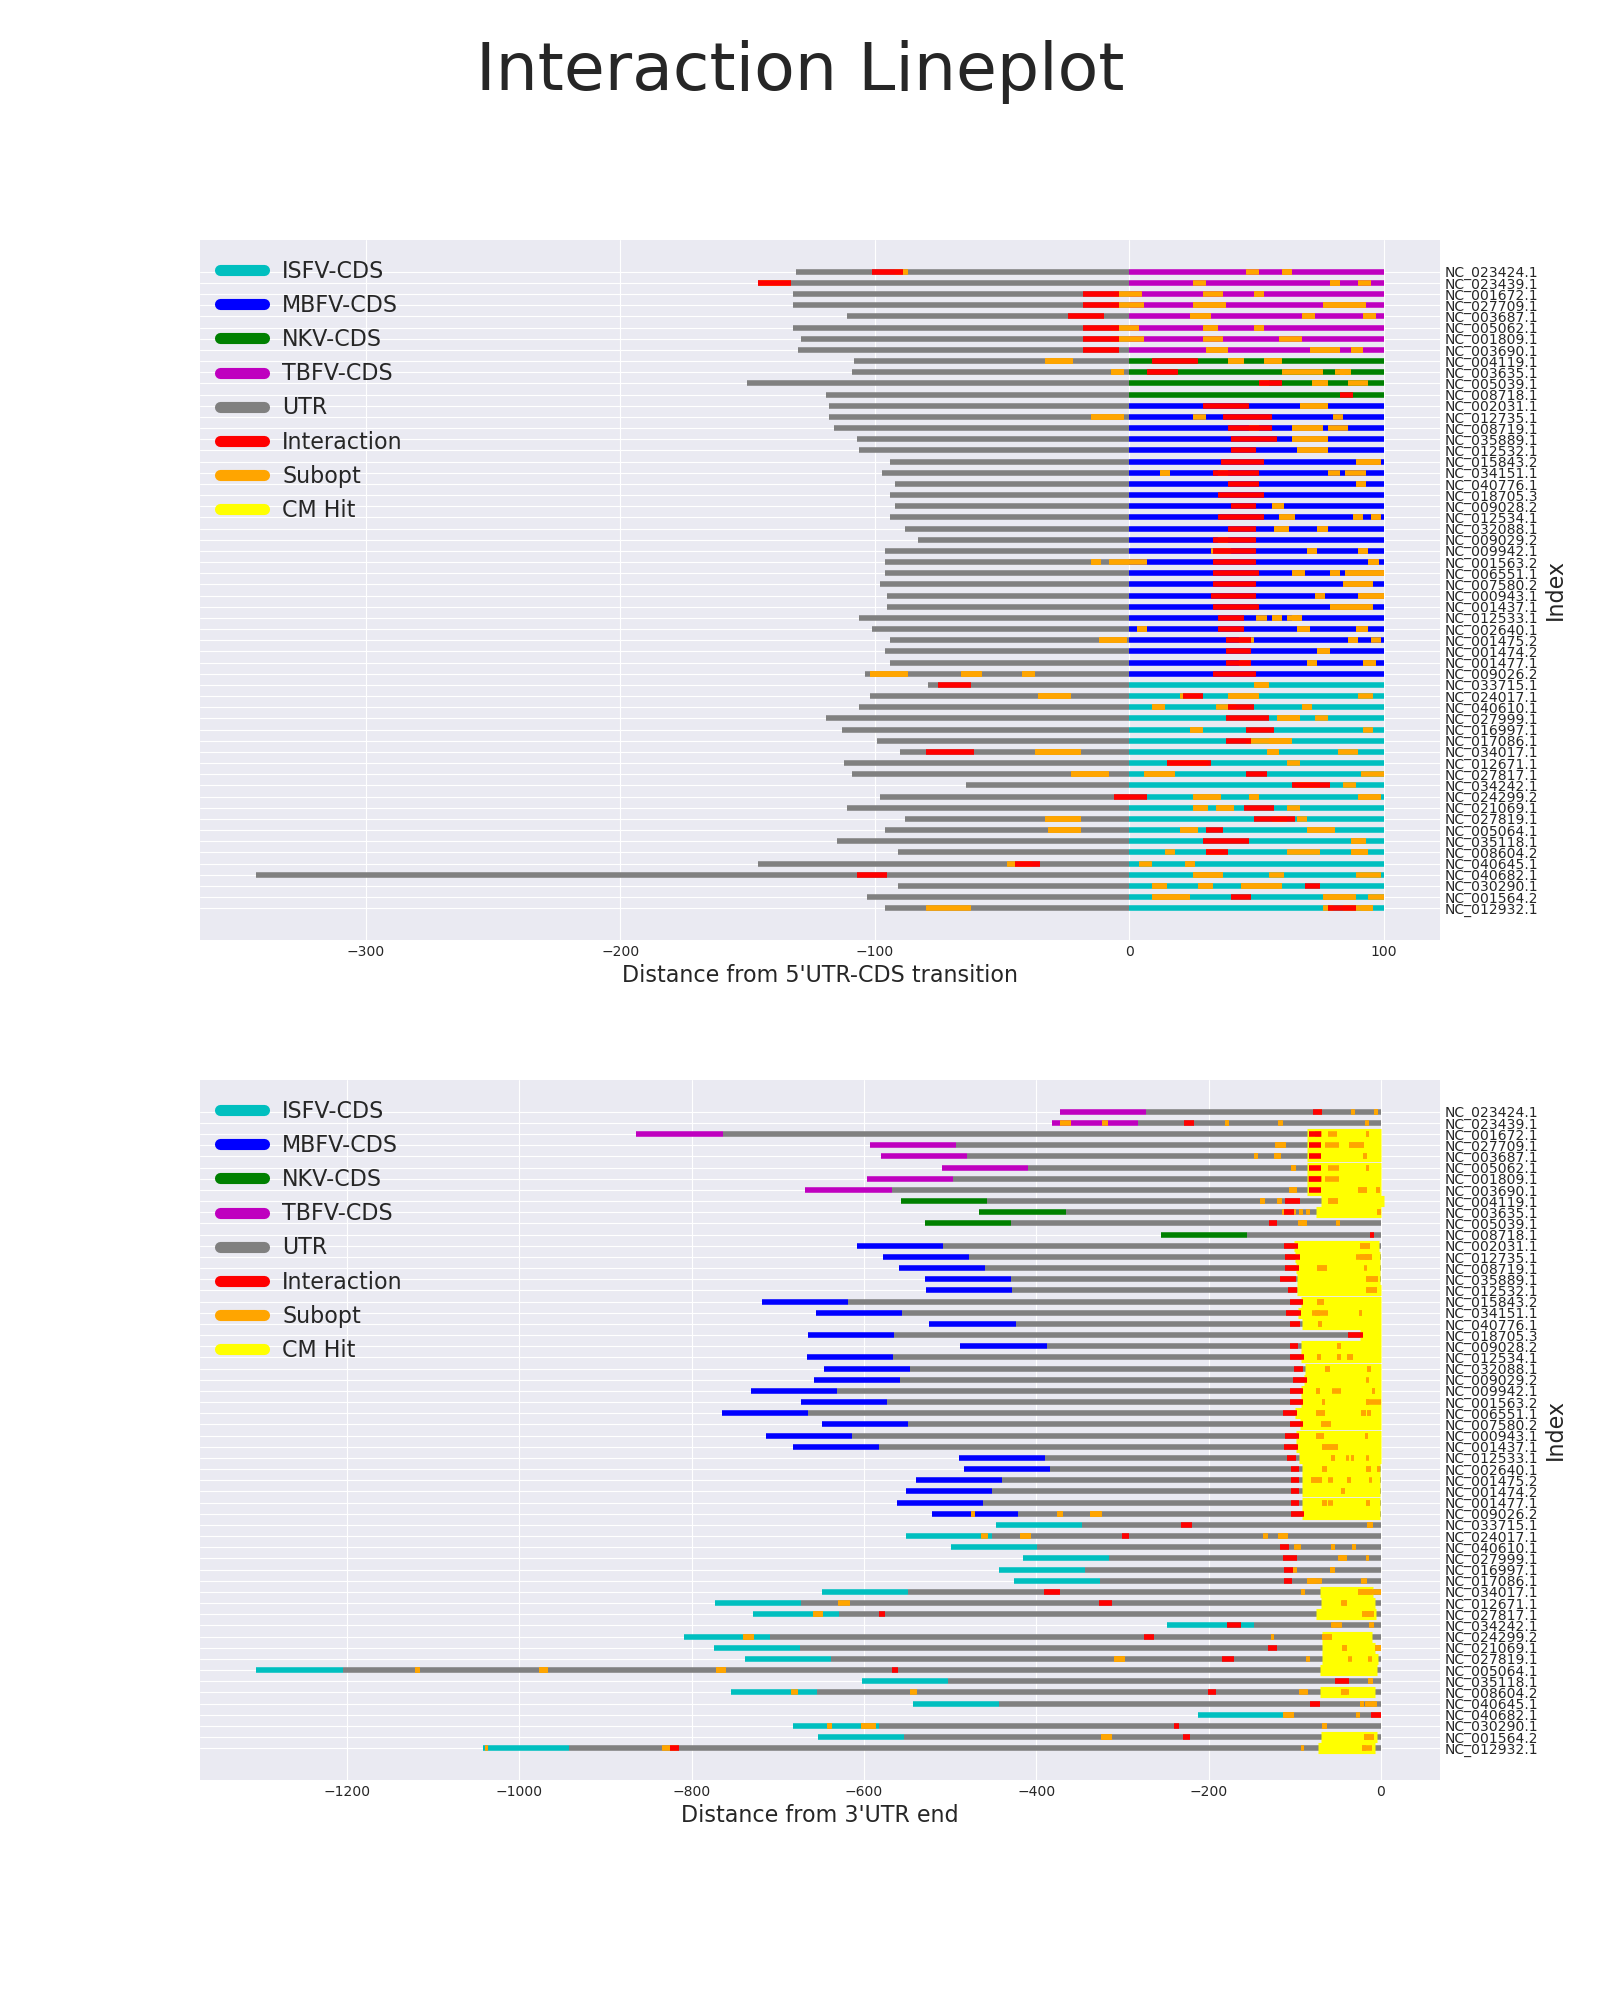
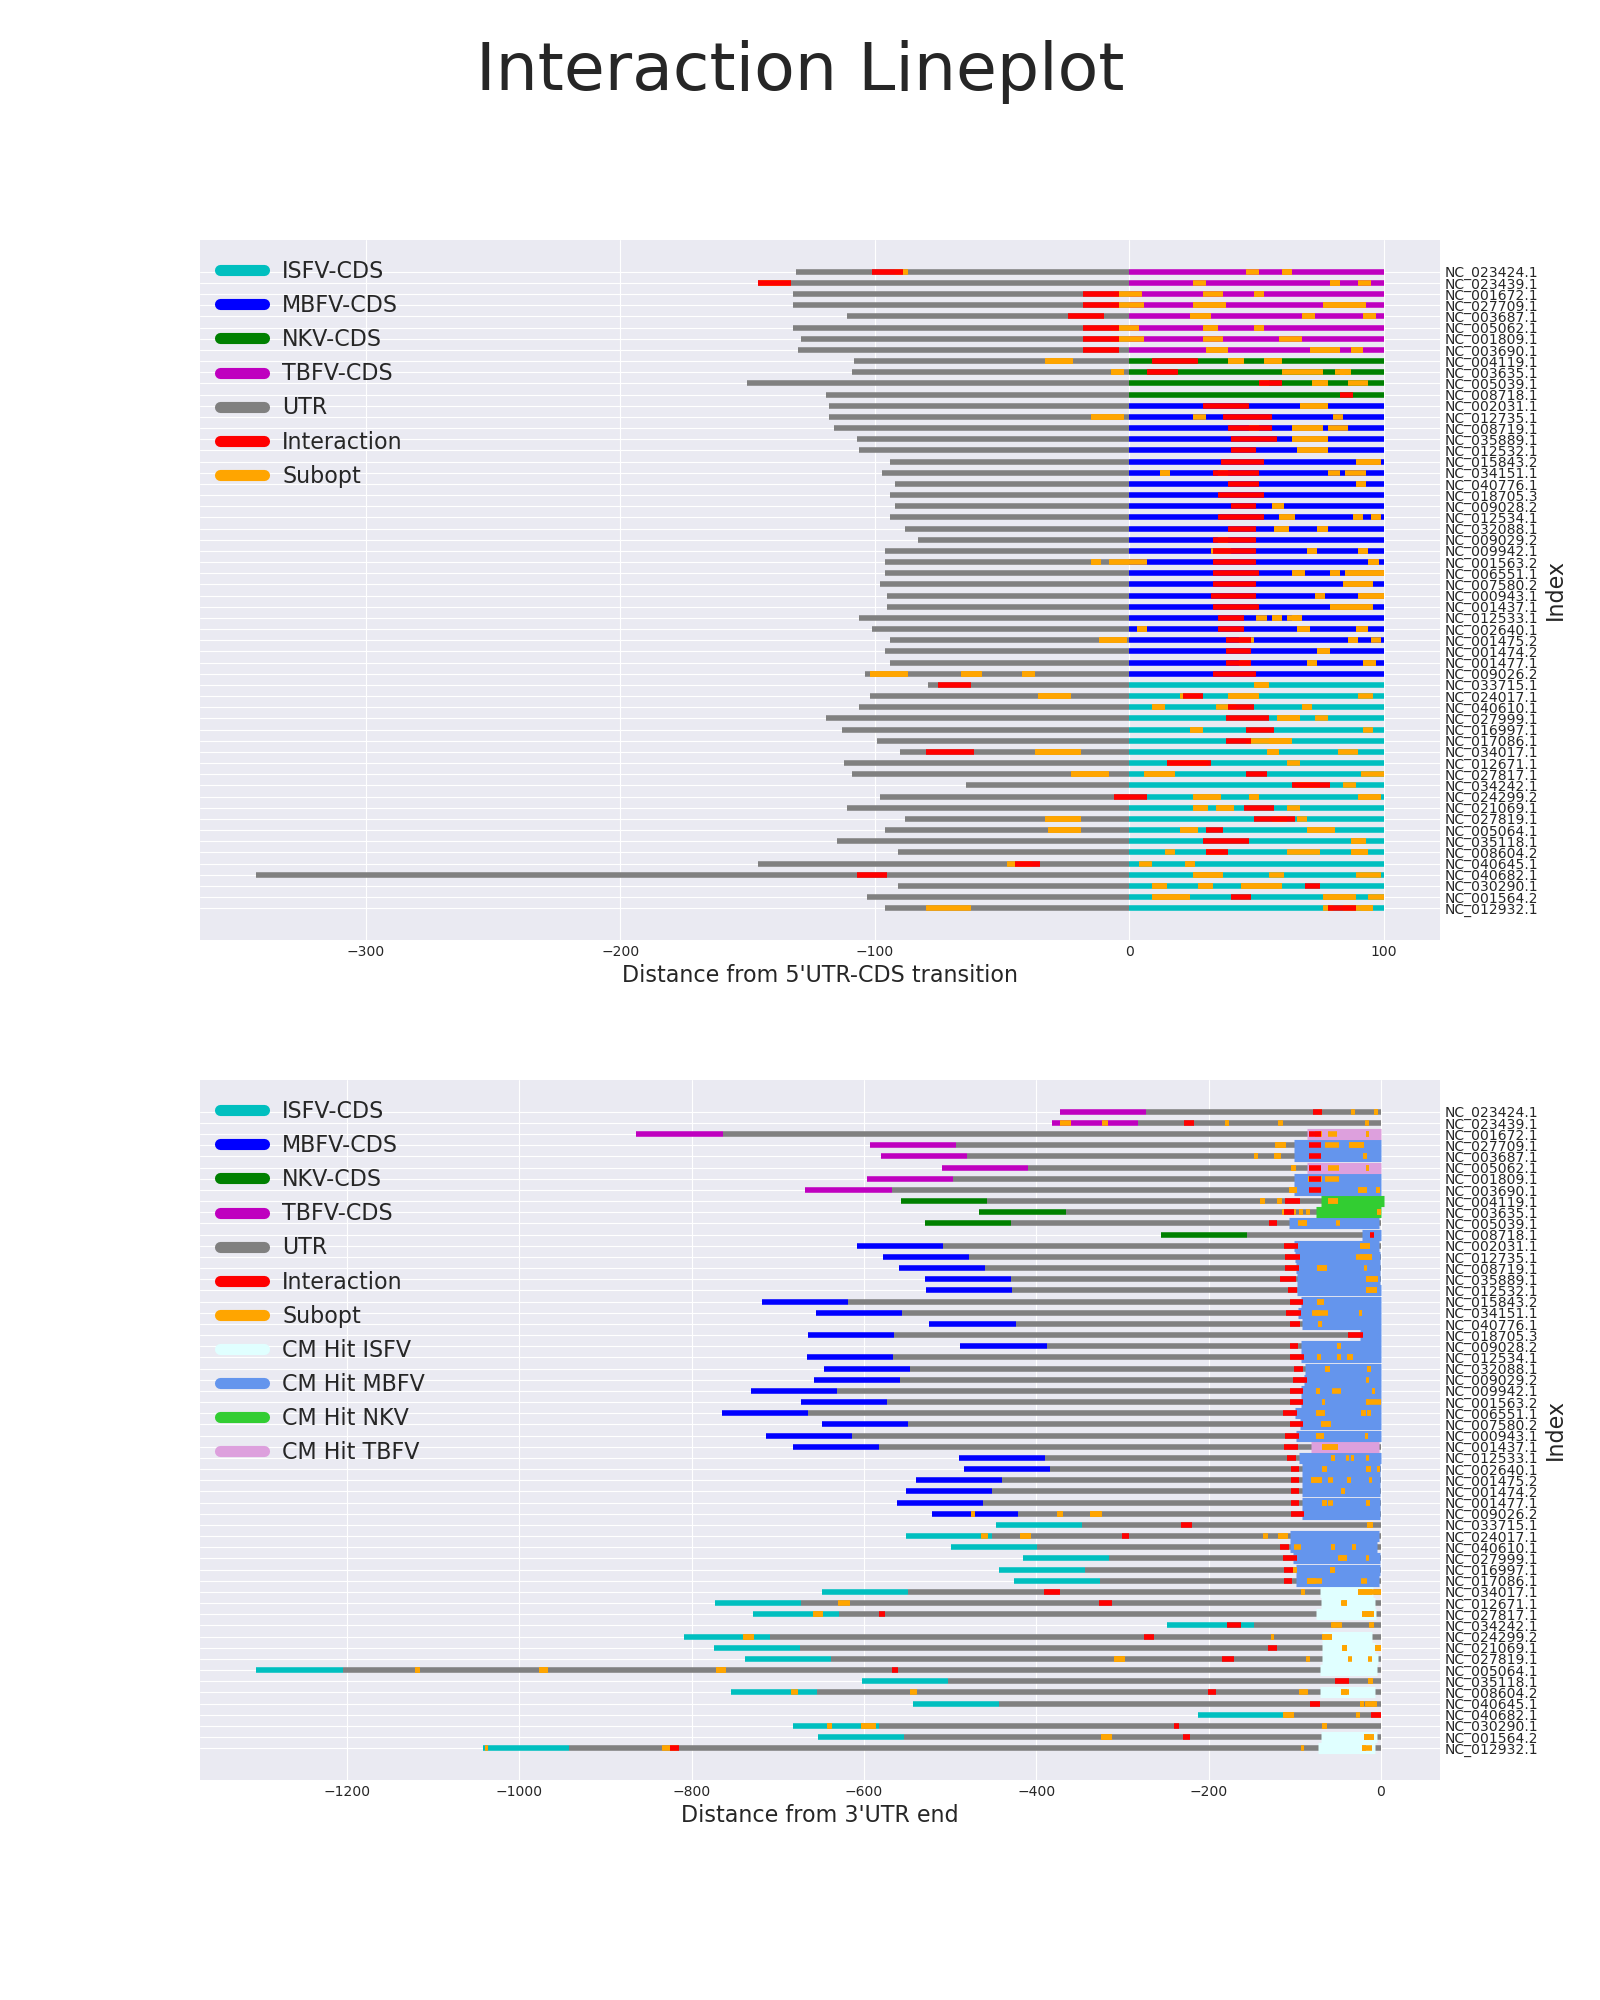
CM now tries all 4 cmfiles on each sequence

Changed region(s): [[0.8125, 0.558, 0.875, 0.899], [0.125, 0.651, 0.25, 0.744], [0.125, 0.248, 0.2188, 0.279]]

diff --git a/Codes/evaluation.py b/Codes/evaluation.py
@@ -8,6 +8,10 @@ import numpy as np
 import math
 
 
+main_colours = {"UTR": "gray", "interaction" : "red", "subopt": "orange"}
+CDS_colours = {"ISFV":"c","MBFV":"blue","NKV":"green","TBFV":"m"}
+CMS_hit_colours = {"ISFV":"lightcyan","MBFV":"cornflowerblue","NKV":"limegreen","TBFV":"plum"}
+
 def draw_lineplots(df, extra_bases_roi, output):
     """
     Draw an interaction lineplot 
@@ -32,37 +36,39 @@ def draw_lineplots(df, extra_bases_roi, output):
             if suboptt:
                 for subopt in suboptt:
                     line5sub.append(((subopt[0], index),
-                              (subopt[1], index))) ## orange?
+                              (subopt[1], index)))
         subopt_len5 = len(line5sub)
         for suboptq in ast.literal_eval(row["suboptqs"]): ## Subopt stuff..
             if suboptq:
                 for subopt in suboptq:
                     line3sub.append(((subopt[0] - row["UTR3len"], index),
-                                     (subopt[1] - row["UTR3len"], index))) ## orange?
+                                     (subopt[1] - row["UTR3len"], index))) 
         subopt_len3 = len(line3sub)
-        line5 = [((0, index), (extra_bases_roi, index)), ## grey
-                 ((0, index), (-row["UTR5len"], index))] ## blue
-        line3 = [((0 - row["UTR3len"], index), (-extra_bases_roi - row["UTR3len"], index)),#((0, index), (-ext_end3, index)), ## grey
-                 ((0 - row["UTR3len"], index), (0, index))] ## blue
+        line5 = [((0, index), (extra_bases_roi, index)), ## CDS
+                 ((0, index), (-row["UTR5len"], index))] ## 5'UTR
+        line3 = [((0 - row["UTR3len"], index), (-extra_bases_roi - row["UTR3len"], index)), ## CDS
+                 ((0 - row["UTR3len"], index), (0, index))] ## 3'UTR
         if math.isnan(row["cm_hit_f"]):
             cmsearch_hit = 0
         else:
             cmsearch_hit = 1
             line3 += [((row["cm_hit_f"] - row["UTR3len"], index),
-                       (row["cm_hit_t"] - row["UTR3len"], index))] ## yellow?
-        line5 += line5sub ## orange
-        line3 += line3sub ## orange
+                       (row["cm_hit_t"] - row["UTR3len"], index))] ## CM Hit
+        line5 += line5sub ## Subopt
+        line3 += line3sub ## Subopt
         line5 += [((t_tuple[0], index),
-                  (t_tuple[1], index))] ## red
+                  (t_tuple[1], index))] ## Main Interaction
         line3 += [((q_tuple[0] - row["UTR3len"], index),
-                 (q_tuple[1] - row["UTR3len"], index))] ## red
-        CDS_colors = {"ISFV":"c","MBFV":"b","NKV":"g","TBFV":"m"}
-        colors5 = [CDS_colors[row["class"]], "gray"] + ["orange"]*subopt_len5 + ["r"]
-        colors3 = [CDS_colors[row["class"]], "gray"] + ["yellow"]*cmsearch_hit + ["orange"]*subopt_len3 + ["r"]
+                 (q_tuple[1] - row["UTR3len"], index))] ## Main Interaction
+        colours5 = [CDS_colours[row["class"]]] + [main_colours["UTR"]] + [main_colours["subopt"]]*subopt_len5 + [main_colours["interaction"]]
+        if cmsearch_hit:
+            colours3 = [CDS_colours[row["class"]]] + [main_colours["UTR"]] + [CMS_hit_colours[row["cm_hit_src"]]] + [main_colours["subopt"]]*subopt_len3 + [main_colours["interaction"]]
+        else:
+            colours3 = [CDS_colours[row["class"]]] + [main_colours["UTR"]] + [main_colours["subopt"]]*subopt_len3 + [main_colours["interaction"]]
         linewidths5 = [4] + [4] + [4]*subopt_len5 + [4]
         linewidths3 = [4] + [4] + [8]*cmsearch_hit + [4]*subopt_len3 + [4]
-        side5.add_collection(LineCollection(line5, colors=colors5, linewidths=linewidths5))
-        side3.add_collection(LineCollection(line3, colors=colors3, linewidths=linewidths3))
+        side5.add_collection(LineCollection(line5, colors=colours5, linewidths=linewidths5))
+        side3.add_collection(LineCollection(line3, colors=colours3, linewidths=linewidths3))
     side5.set_xlabel("Distance from 5'UTR-CDS transition", fontsize=16)
     side3.set_xlabel("Distance from 3'UTR end", fontsize=16)
     side5.set_ylabel("Index", fontsize=16)
@@ -79,15 +85,18 @@ def draw_lineplots(df, extra_bases_roi, output):
     side3.set_yticklabels(list(df["id"]))
     side5.autoscale_view()
     side3.autoscale_view()
-    legend_elements = [Line2D([0], [0], color=CDS_colors["ISFV"], lw=8, label='ISFV-CDS'),
-                       Line2D([0], [0], color=CDS_colors["MBFV"], lw=8, label='MBFV-CDS'),
-                       Line2D([0], [0], color=CDS_colors["NKV"], lw=8, label='NKV-CDS'),
-                       Line2D([0], [0], color=CDS_colors["TBFV"], lw=8, label='TBFV-CDS'),
+    legend_elements = [Line2D([0], [0], color=CDS_colours["ISFV"], lw=8, label='ISFV-CDS'),
+                       Line2D([0], [0], color=CDS_colours["MBFV"], lw=8, label='MBFV-CDS'),
+                       Line2D([0], [0], color=CDS_colours["NKV"], lw=8, label='NKV-CDS'),
+                       Line2D([0], [0], color=CDS_colours["TBFV"], lw=8, label='TBFV-CDS'),
                        Line2D([0], [0], color='gray', lw=8, label='UTR'),
                        Line2D([0], [0], color='r', lw=8, label='Interaction'),
                        Line2D([0], [0], color='orange', lw=8, label='Subopt'),
-                       Line2D([0], [0], color='yellow', lw=8, label='CM Hit'),]
-    side5.legend(handles=legend_elements,loc="upper left", prop={"size": 16})
+                       Line2D([0], [0], color=CMS_hit_colours["ISFV"], lw=8, label='CM Hit ISFV'),
+                       Line2D([0], [0], color=CMS_hit_colours["MBFV"], lw=8, label='CM Hit MBFV'),
+                       Line2D([0], [0], color=CMS_hit_colours["NKV"], lw=8, label='CM Hit NKV'),
+                       Line2D([0], [0], color=CMS_hit_colours["TBFV"], lw=8, label='CM Hit TBFV'),]
+    side5.legend(handles=legend_elements[:-4],loc="upper left", prop={"size": 16})
     side3.legend(handles=legend_elements,loc="upper left", prop={"size": 16})
     plt.suptitle("Interaction Lineplot", fontsize=48)
     plt.savefig(output)

diff --git a/Codes/covariance.py b/Codes/covariance.py
@@ -77,24 +77,32 @@ def cm_search(df, cm_dir, seq_dir, output_path):
     cm_dir_names = os.listdir(cm_dir)      ## This part is maybe unneccessary
     cm_end = cm_dir_names[0].split("_")[1] ## But I want to ensure modability
     cm_files = [i.split("_")[0] for i in os.listdir(cm_dir)]
-    for root, dirs, files in os.walk(seq_dir):
-        #print(cm_files) -> So far good
-        dir = root.split("/")[-1]
-        if dir in cm_files:  # = Match in cm_dir
-            print(dir)
-            for file in files:
-                if file.endswith("3UTR.fa"): ## Find the right file
-                    out_file = f"{output_path}/{dir}.cmout"
-                    p = run_cm_search(f"{cm_dir}/{dir}_{cm_end}", 
-                                      f"{root}/{file}", 
-                                      out_file)
-                    f = open(out_file, "r")
-                    for line in f.readlines():
-                        if line.startswith("#"):
-                            continue
-                        split_line = line.split()
-                        id = split_line[17]
-                        f, t = split_line[7:9]
+    for file in os.listdir(seq_dir):
+        if file.endswith("3UTR.fa"): ## Find the right file
+        
+        ####dir = root.split("/")[-1]
+        ####if dir in cm_files:  # = Match in cm_dir
+        ####for file in files:
+        ####    if file.endswith("3UTR.fa"): 
+            scores = {}
+            for cm_file in cm_files:
+                if not os.path.isfile(f"{cm_dir}/{cm_file}_{cm_end}"):
+                    continue # Skip directories
+                out_file = f"{output_path}/{cm_file}.cmout"
+                p = run_cm_search(f"{cm_dir}/{cm_file}_{cm_end}", 
+                                  f"{seq_dir}/{file}", out_file)
+                f = open(out_file, "r")
+                for line in f.readlines():
+                    if line.startswith("#"):
+                        continue
+                    split_line = line.split()
+                    id = split_line[17]
+                    score = split_line[14]
+                    if (not id in scores) or (scores[id] < score):
+                        scores[id] = score # Update score if its better
+                        f, t = split_line[7:9] # Save hit with best score
                         df.loc[df.id == id, "cm_hit_f"] = int(f)
                         df.loc[df.id == id, "cm_hit_t"] = int(t)
+                        df.loc[df.id == id, "cm_hit_src"] = cm_file
+    df.to_csv(f"{output_path}/Inta_plus_CM.csv", index=False)
     return df
